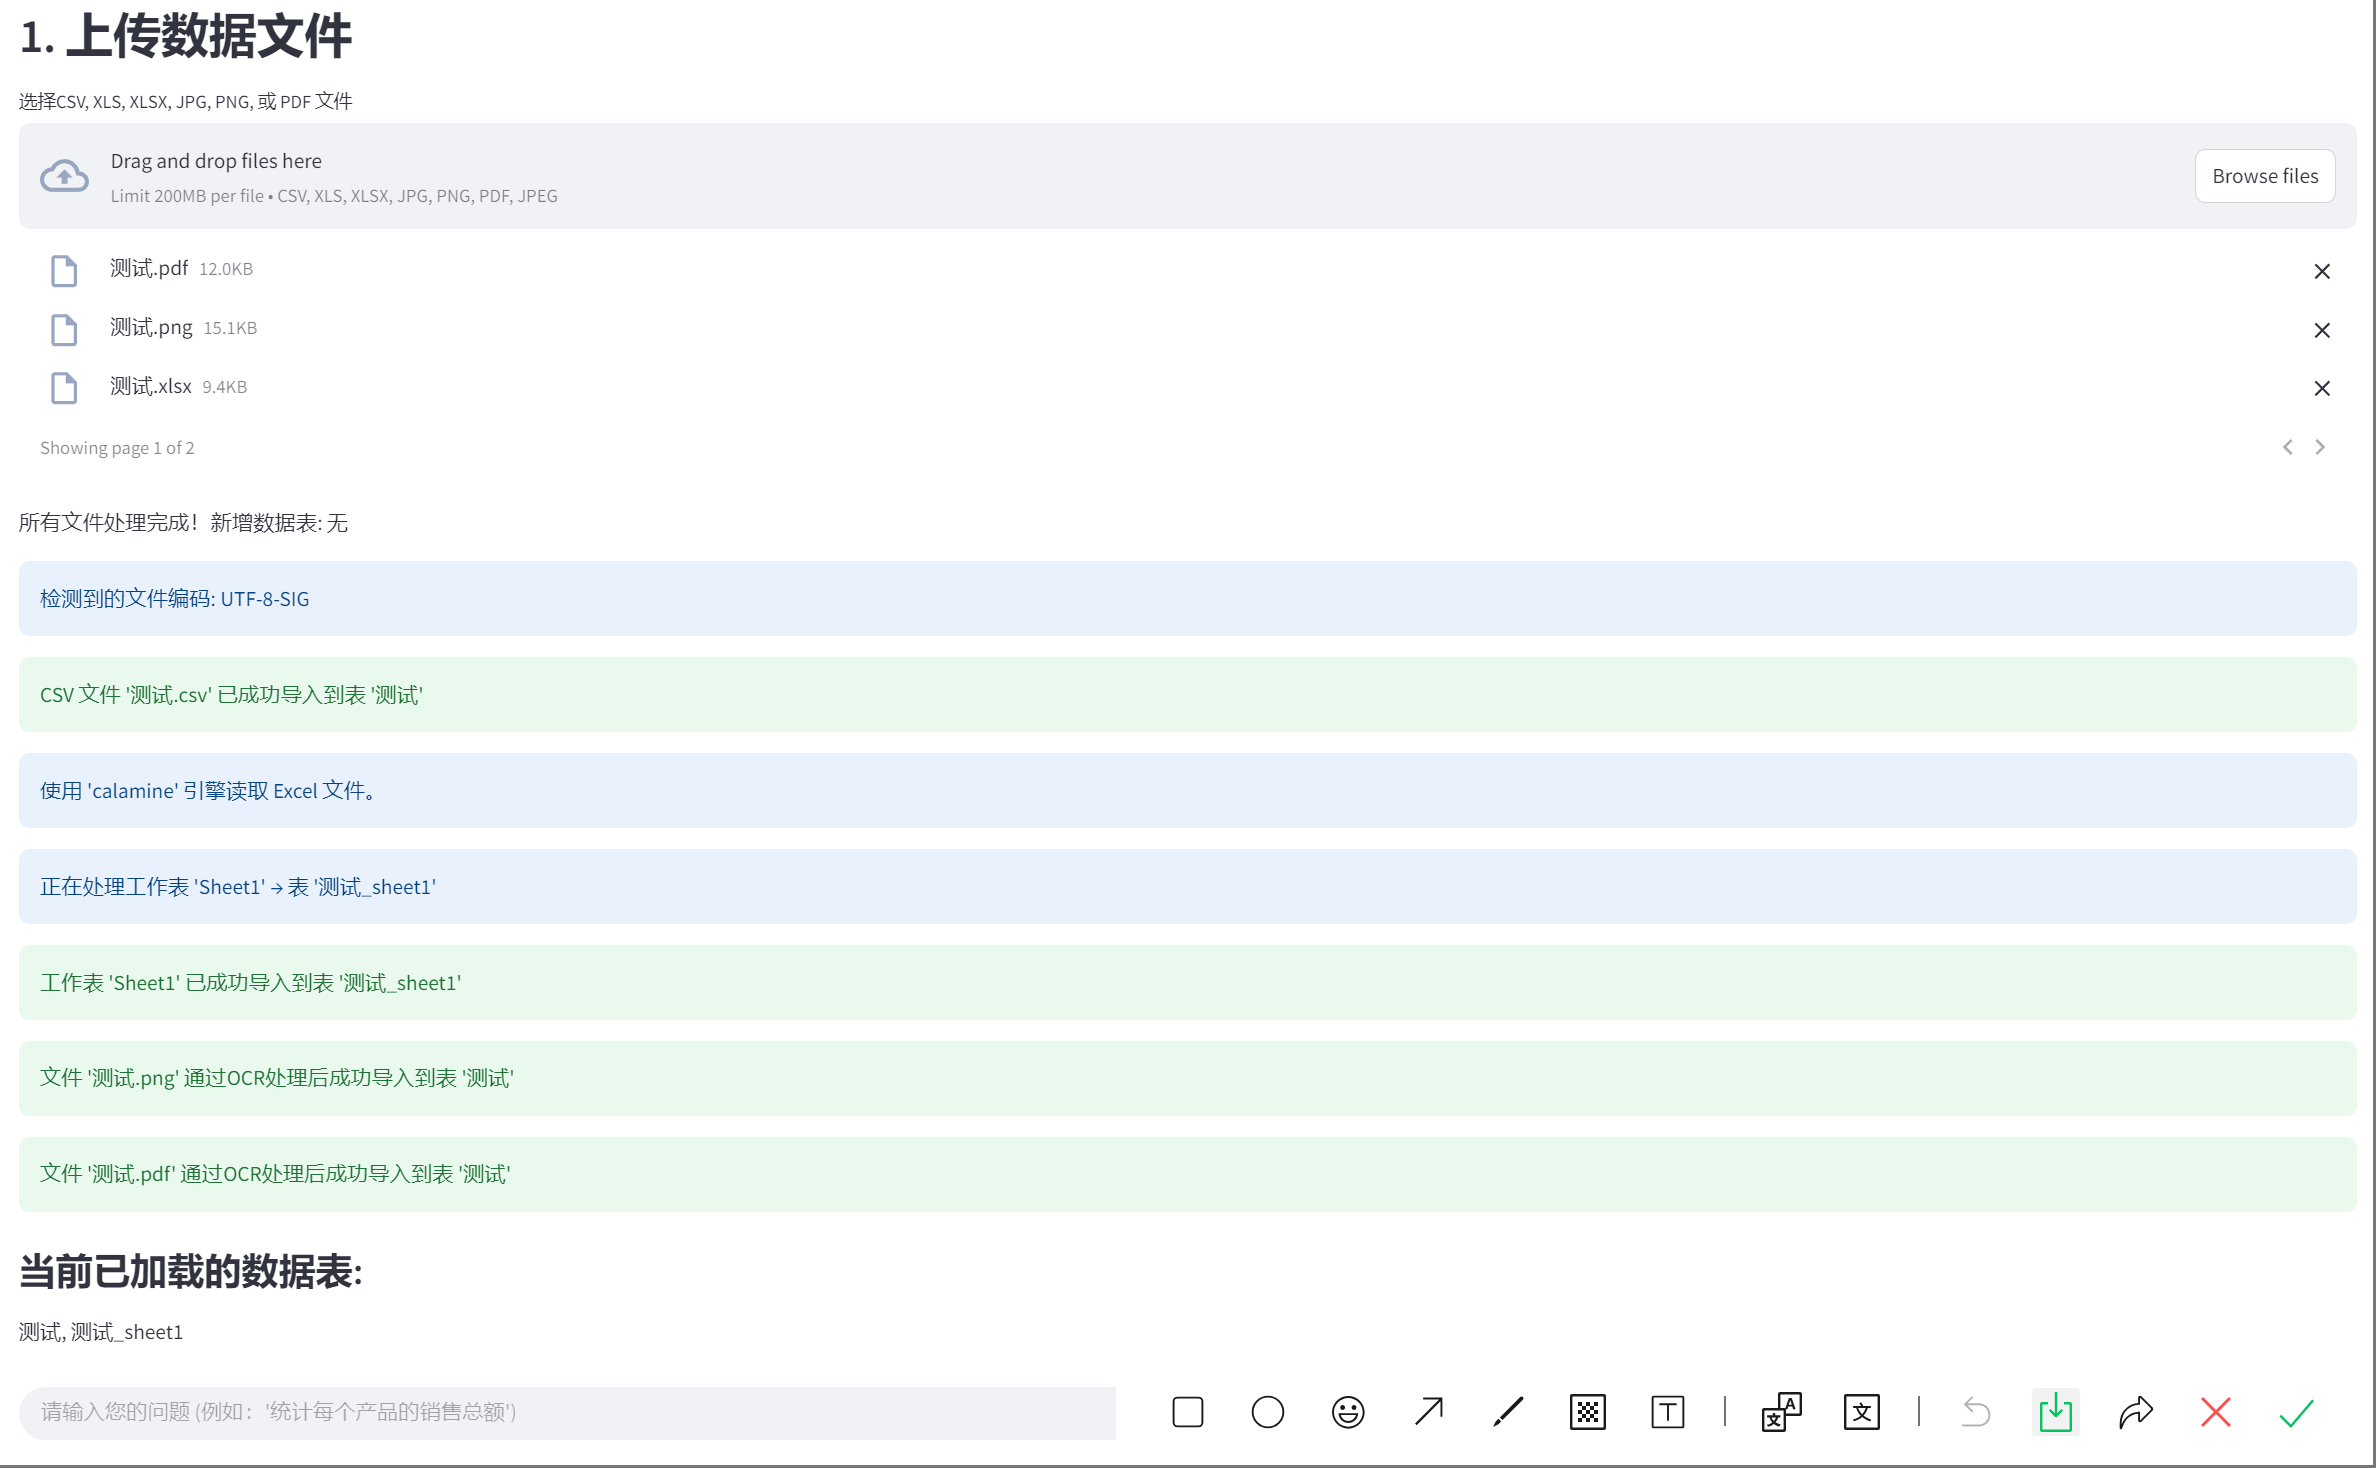
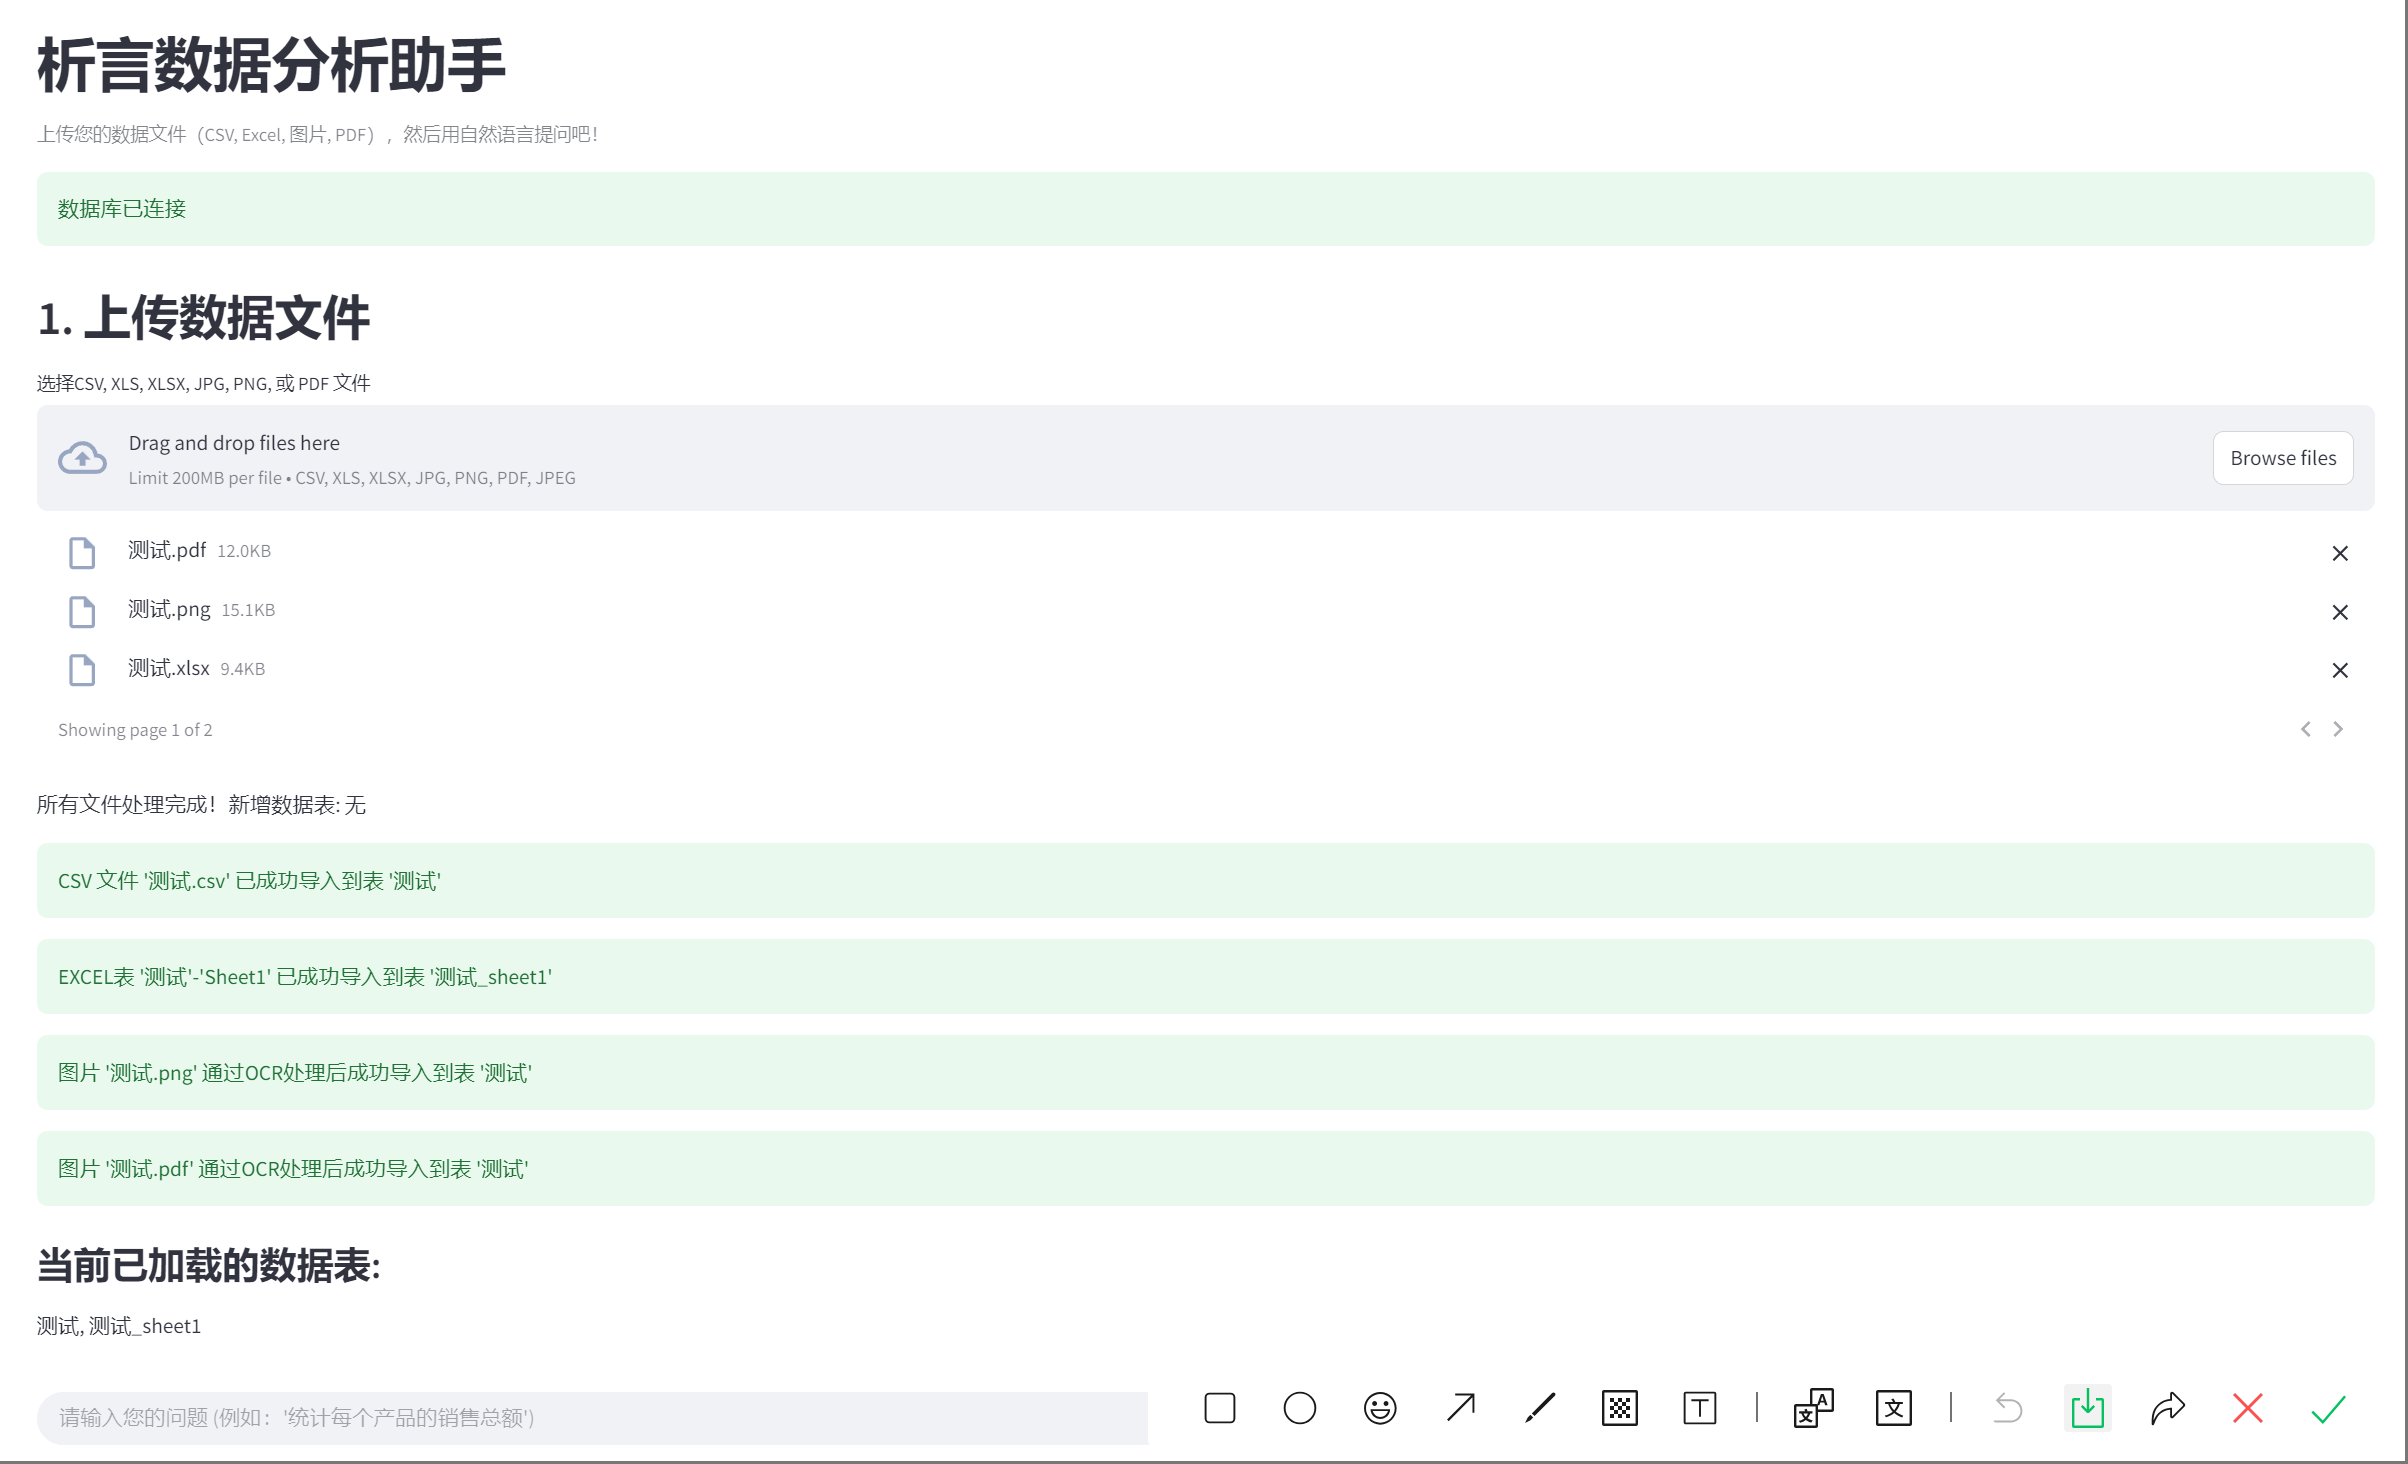
refactor: 简化日志输出并优化依赖项
移除不必要的日志输出信息，减少界面干扰。同时清理并更新 `requirements.txt` 中的依赖项，移除不再使用的库，添加必要的库如 `psycopg2` 和 `streamlit`，以提高项目的可维护性和运行效率。

diff --git a/app.py b/app.py
@@ -172,7 +172,6 @@ def process_tabular_file(uploaded_file, conn):
             raw_data = uploaded_file.read()
             result = chardet.detect(raw_data)
             encoding = result['encoding']
-            st.info(f"检测到的文件编码: {encoding}")
 
             try:
                 # 尝试检测到的编码
@@ -192,11 +191,9 @@ def process_tabular_file(uploaded_file, conn):
             if insert_dataframe_to_db(df, base_table_name, conn):
                 st.success(f"CSV 文件 '{uploaded_file.name}' 已成功导入到表 '{base_table_name}'")
                 created_tables.append(base_table_name)
-
         elif uploaded_file.name.endswith(('.xls', '.xlsx')):
             # 使用 calamine 引擎读取Excel文件
             excel_data = pd.read_excel(uploaded_file, sheet_name=None, engine='calamine')
-            st.info("使用 'calamine' 引擎读取 Excel 文件。")
 
             if not excel_data:
                 st.warning(f"Excel 文件 '{uploaded_file.name}' 为空或无法读取。")
@@ -210,10 +207,9 @@ def process_tabular_file(uploaded_file, conn):
                 table_name = f"{base_table_name}_{cleaned_sheet_name}"
                 if not table_name: # 防止文件名和表单名都为空
                     table_name = f"excel_sheet_{len(created_tables) + 1}"
-
-                st.info(f"正在处理工作表 '{sheet_name}' -> 表 '{table_name}'")
+                    
                 if insert_dataframe_to_db(df, table_name, conn):
-                    st.success(f"工作表 '{sheet_name}' 已成功导入到表 '{table_name}'")
+                    st.success(f"EXCEL表 '{base_file_name}'-'{sheet_name}' 已成功导入到表 '{table_name}'")
                     created_tables.append(table_name)
                 else:
                     st.error(f"导入工作表 '{sheet_name}' 到表 '{table_name}' 失败。")
@@ -327,7 +323,7 @@ def process_ocr(uploaded_file, conn):
         if df is not None and not df.empty:
             # 使用辅助函数将DataFrame导入数据库
             if insert_dataframe_to_db(df, table_name, conn):
-                st.success(f"文件 '{uploaded_file.name}' 通过OCR处理后成功导入到表 '{table_name}'")
+                st.success(f"图片 '{uploaded_file.name}' 通过OCR处理后成功导入到表 '{table_name}'")
                 return table_name
             else:
                 return None
